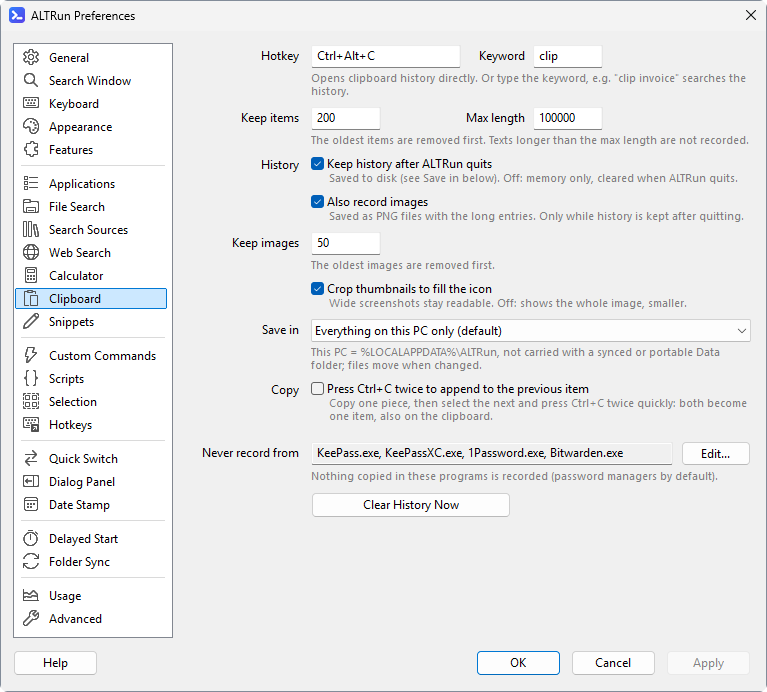
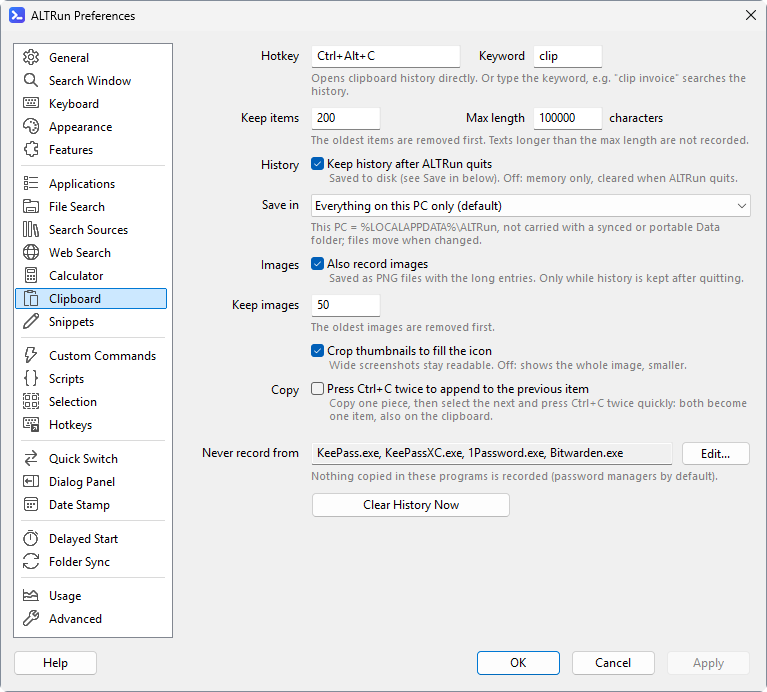
Clipboard Preferences: Groups, Grayed-Out Dependent Settings, Clear Confirmation (Test Build 2026.11.13.9) (#512)
- History (keep after quitting, Save in), Images (record images, keep images,
  crop thumbnails) and Copy groups
- Save in and the image settings are grayed out while the history isn't kept;
  Keep images is grayed out while images aren't recorded
- Max length shows its unit (characters)
- Clear History Now asks first, with the number of items it deletes; pinned
  items are kept
- Screenshot prefs-clipboard updated (checked)

Refs #509

Changed region(s): [[0.2999, 0.2731, 0.9896, 0.5462], [0.7797, 0.1517, 0.8696, 0.1821]]

diff --git a/CHANGELOG.md b/CHANGELOG.md
@@ -5,6 +5,16 @@
 
 ## [未发布]
 
+## [2026.11.13.9]
+
+测试版。
+
+Test build.
+
+### 改进
+- 偏好设置 → 剪贴板历史: 设置分成 历史 (退出后保留历史、保存位置)、图片 (也记录图片、保存图片数、缩略图裁切填满图标)、复制 三组; 不起作用的设置变灰 (没开 "退出后保留历史" 时保存位置和图片设置变灰, 不记录图片时保存图片数变灰); "最长字数" 后面写出单位
+- 偏好设置 → 剪贴板历史: "立即清空历史" 先确认, 写明要删几条, 置顶的条目保留
+
 ## [2026.11.13.8]
 
 测试版。
@@ -1488,7 +1498,8 @@ Smoother typing, easier to get started, and a few useful new features.
 ## 更早的版本
 见 [GitHub Releases](https://github.com/zhugecaomao/ALTRun/releases)。
 
-[未发布]: https://github.com/zhugecaomao/ALTRun/compare/2026.11.13.8...HEAD
+[未发布]: https://github.com/zhugecaomao/ALTRun/compare/2026.11.13.9...HEAD
+[2026.11.13.9]: https://github.com/zhugecaomao/ALTRun/compare/2026.11.13.8...2026.11.13.9
 [2026.11.13.8]: https://github.com/zhugecaomao/ALTRun/compare/2026.11.13.7...2026.11.13.8
 [2026.11.13.7]: https://github.com/zhugecaomao/ALTRun/compare/2026.11.13.6...2026.11.13.7
 [2026.11.13.6]: https://github.com/zhugecaomao/ALTRun/compare/2026.11.13.5...2026.11.13.6

diff --git a/docs/wiki/Clipboard.md b/docs/wiki/Clipboard.md
@@ -25,6 +25,6 @@ Privacy:
 - The clipboard is read about 0.15 s after a copy and closed right away (images are saved as PNG after it is closed), so screen capture tools and other programs that use the clipboard again right after writing it are not blocked
 - Add other programs you don't want recorded to `Features.Clipboard.IgnoreApps`
 - With `Persist = 0` the history is kept in memory only and is gone when ALTRun quits (no images either); turning it off in Preferences asks whether to delete the history saved so far too; otherwise it's saved on this PC only, in `%LOCALAPPDATA%\ALTRun\ClipboardHistory.json` (very long items and images separately in `%LOCALAPPDATA%\ALTRun\Clipboard\`), so it doesn't travel with a synced or portable Data folder. Preferences → Clipboard → "Save in" can keep the text history in the Data folder instead (`LocalFiles = 1`), or everything (`LocalFiles = 0`)
-- Preferences → Clipboard can clear the history
+- Preferences → Clipboard can clear the history ("Clear History Now" first says how many items it deletes; pinned items are kept)
 
 ![Preferences → Clipboard](https://raw.githubusercontent.com/zhugecaomao/ALTRun/main/docs/images/screenshots/prefs-clipboard.png)

diff --git a/docs/wiki/Clipboard-zh.md b/docs/wiki/Clipboard-zh.md
@@ -25,6 +25,6 @@
 - 复制后约 0.15 秒才去读剪贴板, 读完马上关掉 (图片在关掉之后再存成 PNG): 截图工具等写完剪贴板马上又要用它的程序不会被挡住
 - `Features.Clipboard.IgnoreApps` 可以加上其它不想记录的程序
 - `Persist = 0` 时只保存在内存里, 退出即清空 (也不记录图片); 在偏好设置里关掉时会问要不要把之前保存的历史也删掉; 否则只保存在这台电脑上, 即 `%LOCALAPPDATA%\ALTRun\ClipboardHistory.json` (很长的条目和图片单独存在 `%LOCALAPPDATA%\ALTRun\Clipboard\`), 不跟着同步盘或 U 盘里的 Data 文件夹走。偏好设置 → 剪贴板 → "保存位置" 可以改成把文字历史放在 Data 文件夹 (`LocalFiles = 1`), 或者全部放在 Data 文件夹 (`LocalFiles = 0`)
-- 偏好设置 → 剪贴板历史 里可以清空历史
+- 偏好设置 → 剪贴板历史 里可以清空历史 ("立即清空历史" 先确认, 写明要删几条; 置顶的保留)
 
 ![偏好设置 → 剪贴板历史](https://raw.githubusercontent.com/zhugecaomao/ALTRun/main/docs/images/screenshots/prefs-clipboard.png)
